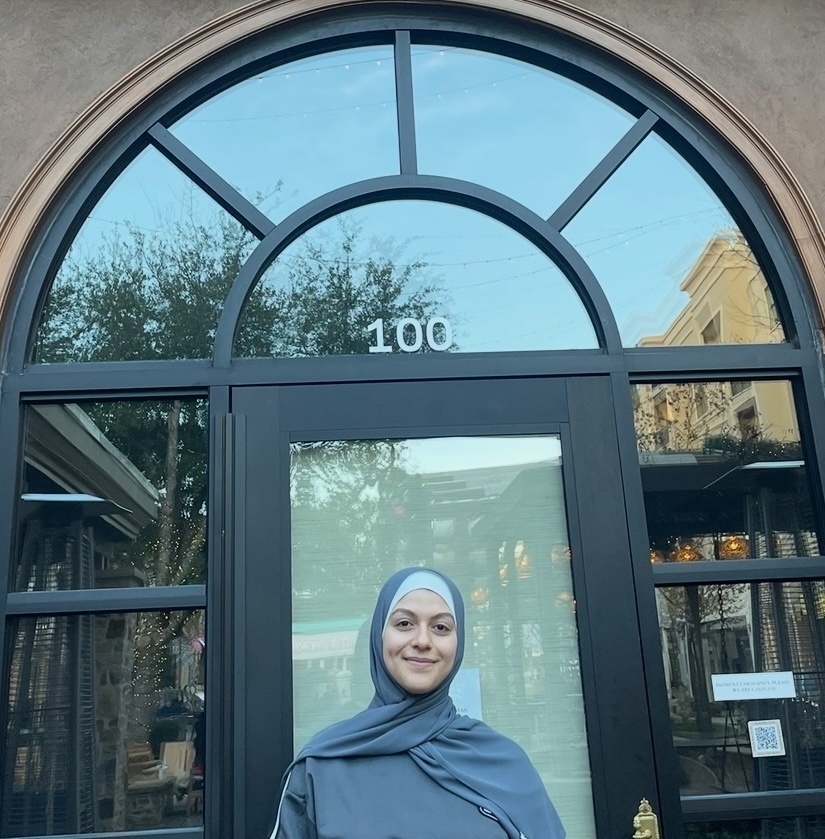
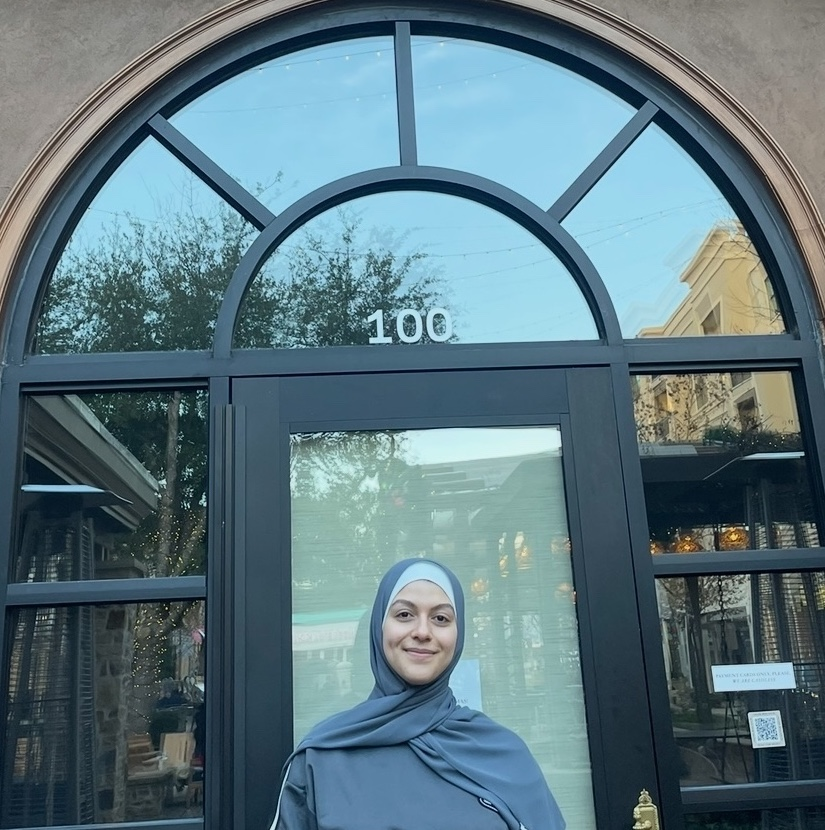
added in margin under picture and edited cropping of image slightly

diff --git a/angular-portfolio/src/app/app.component.scss b/angular-portfolio/src/app/app.component.scss
@@ -57,7 +57,8 @@ body {
 .profile-pic {
     border-radius: 47%;
     width: 125px;
-    transform: scale(1.6);
+    transform: scale(1.68);
+    margin-bottom: 6px;
 }
 
 .content > h5 {
